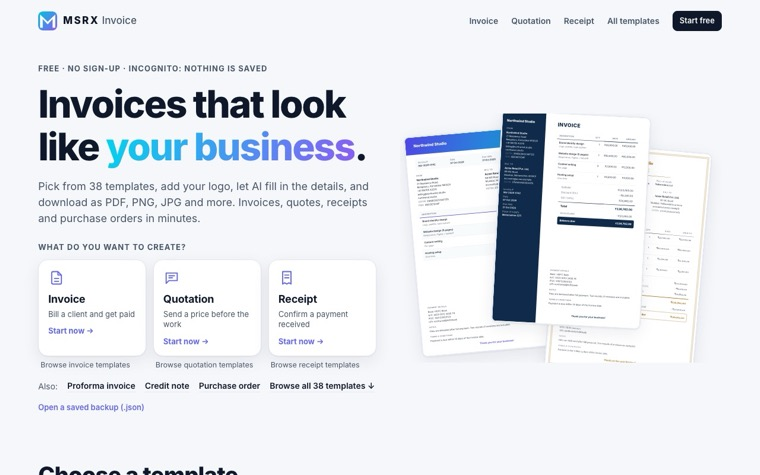
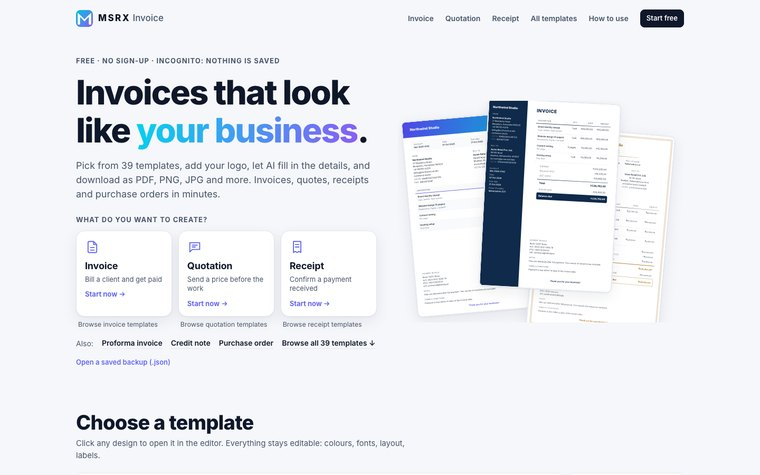
MSRX Invoice: 39 templates, refreshed card and screenshot

diff --git a/tools/build_profile.py b/tools/build_profile.py
@@ -178,7 +178,7 @@ WEB = [
     ("create", "graphiq", "MSRX GraphIQ", "GQ", "#9333EA", "graph.msrx.co.in", "Spreadsheet in, 2D and 3D charts out", "graphiq.png"),
     ("create", "canvasiq", "MSRX CanvasIQ", "CQ", "#1D4ED8", "canvas.msrx.co.in", "Paint, vectors and 3D with a copilot", "canvasiq.png"),
     ("create", "qr-studio", "MSRX QR Studio", "QS", "#0E7490", "qr.msrx.co.in", "22 QR types, with scan-health scores", "qrstudio.png"),
-    ("work", "invoice", "MSRX Invoice", "IV", "#4338CA", "invoice.msrx.co.in", "38 invoice templates, nothing saved", "invoice.png"),
+    ("work", "invoice", "MSRX Invoice", "IV", "#4338CA", "invoice.msrx.co.in", "39 invoice templates, nothing saved", "invoice.png"),
     ("work", "meeting", "MSRX Meeting", "MM", "#2563EB", "meeting.msrx.co.in", "Encrypted rooms with live captions", "meeting.png"),
     ("work", "incognitocv", "IncognitoCV", "IC", "#8A5F1C", "cv.msrx.co.in", "Score a CV without uploading it", "cv.png"),
     ("work", "easy-peasy-gantt", "Easy-Peasy Gantt", "EG", "#4F46E5", "gantt.msrx.co.in", "Presentation-ready Gantt charts", "gantt.png"),

diff --git a/README.md b/README.md
@@ -55,7 +55,7 @@ Every card opens the app. Grouped the same way as the catalog.
 <h4 align="center">Work <sub>· 4</sub></h4>
 <p align="center"><sub>Meetings, timelines and the CV you are about to send.</sub></p>
 <p align="center">
-  <a href="https://invoice.msrx.co.in"><img src="assets/cards/invoice.webp" width="272" alt="MSRX Invoice: 38 invoice templates, export to PDF, PNG and more, nothing saved"></a>
+  <a href="https://invoice.msrx.co.in"><img src="assets/cards/invoice.webp" width="272" alt="MSRX Invoice: 39 invoice templates, export to PDF, PNG and more, nothing saved"></a>
   <a href="https://meeting.msrx.co.in"><img src="assets/cards/meeting.webp" width="272" alt="MSRX Meeting: encrypted video rooms with real-time captions"></a>
   <a href="https://cv.msrx.co.in"><img src="assets/cards/incognitocv.webp" width="272" alt="IncognitoCV: score your CV against a job posting without uploading it"></a>
   <a href="https://gantt.msrx.co.in"><img src="assets/cards/easy-peasy-gantt.webp" width="272" alt="Easy-Peasy Gantt: presentation-ready Gantt charts in seconds"></a>
@@ -94,7 +94,7 @@ Every card opens the app. Grouped the same way as the catalog.
 | **[MSRX CanvasIQ](https://canvas.msrx.co.in)** | A classic Paint-style pixel editor, 2D vector drawing and diagrams, and 3D modelling with an AI copilot, in the browser. Paint mode has selections, nine brushes, fill, text and export to PNG, JPEG, GIF, BMP, TIFF, WebP and PDF. |
 | **[MSRX UPI Desk](https://upi.msrx.co.in)** | 22 tools for the jobs around a UPI payment: payment QRs, pay links, a till, udhaar reminders, GST invoices and a scam check, in English and all 22 scheduled Indian languages. No account, works offline, never moves money. |
 | **[MSRX QR Studio](https://qr.msrx.co.in)** | 22 QR types with gradients, logos, 33 frames and 32 editable templates, plus scan-health scoring that catches codes which would fail in the real world. |
-| **[MSRX Invoice](https://invoice.msrx.co.in)** | Invoices, quotes, receipts, proforma invoices, credit notes and purchase orders from 38 templates. Add your logo, GSTIN/PAN and other registration details, and download as PDF, PNG, JPG and more. Nothing is saved or uploaded; an optional Ask AI box fills a document from plain words. [Step-by-step guide with screenshots](https://invoice.msrx.co.in/guide). |
+| **[MSRX Invoice](https://invoice.msrx.co.in)** | Invoices, quotes, receipts, proforma invoices, credit notes and purchase orders from 39 templates. Add your logo, GSTIN/PAN and other registration details, and download as PDF, PNG, JPG and more. Nothing is saved or uploaded; an optional Ask AI box fills a document from plain words. [Step-by-step guide with screenshots](https://invoice.msrx.co.in/guide). |
 | **[Easy-Peasy Gantt](https://gantt.msrx.co.in)** | One presentation-ready schedule without adopting a project-management platform. Single file, no framework. |
 
 </details>
